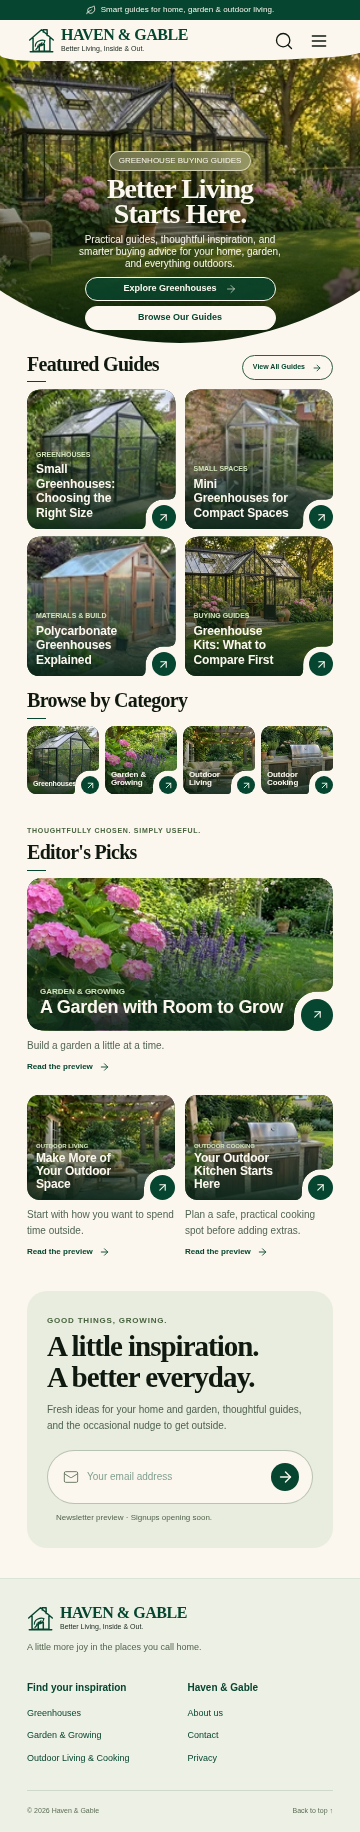
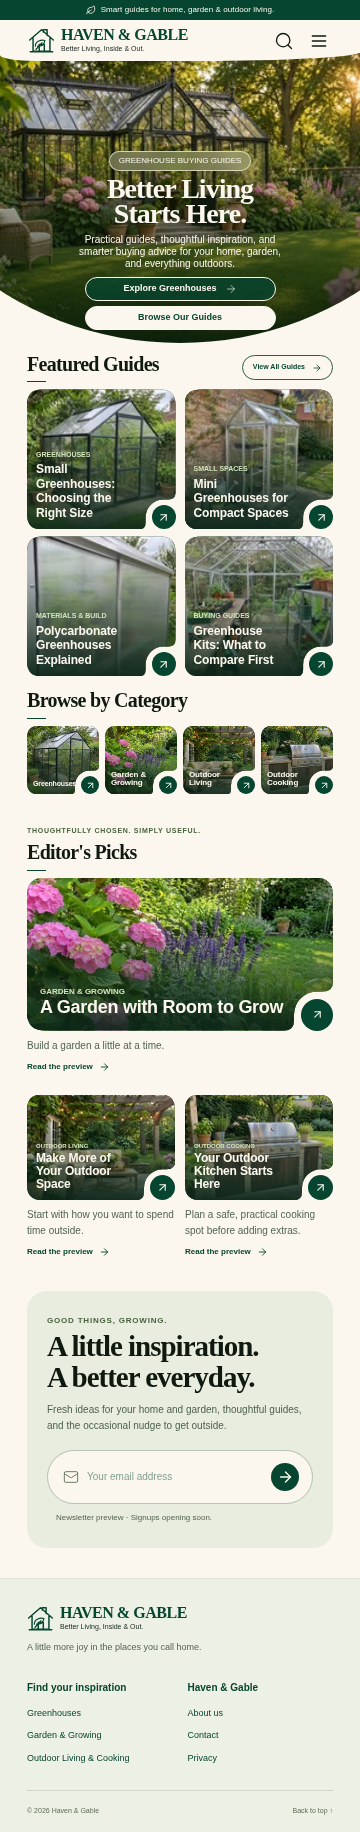
Refine greenhouse editorial photography and device-aware card hover

Changed region(s): [[0.0611, 0.28, 0.9472, 0.3734]]

diff --git a/lib/content.ts b/lib/content.ts
@@ -25,9 +25,9 @@ export const guides = [
     id: "polycarbonate-greenhouses",
     title: "Polycarbonate Greenhouses Explained",
     badge: "Materials & build",
-    image: "/images/greenhouse-timber.webp",
+    image: "/images/greenhouse-panels.webp",
     imageAlt:
-      "Timber greenhouse with translucent polycarbonate panels and vegetable beds",
+      "Close-up of translucent ribbed polycarbonate greenhouse panels and aluminum framing",
     category: "Greenhouses",
     description:
       "Polycarbonate panels are light and diffuse direct sunlight. Compare panel thickness, the frame, ventilation, and the fixing system together. The quality of the whole structure matters as much as the glazing.",
@@ -36,8 +36,9 @@ export const guides = [
     id: "greenhouse-kits",
     title: "Greenhouse Kits: What to Compare First",
     badge: "Buying guides",
-    image: "/images/hero-greenhouse.webp",
-    imageAlt: "Glass greenhouse surrounded by flowers in a sunlit garden",
+    image: "/images/greenhouse-interior.webp",
+    imageAlt:
+      "Greenhouse interior with a potting bench, seed trays, shelves, and gardening supplies",
     category: "Greenhouses",
     description:
       "Look beyond the footprint. Check what the kit includes, which base it needs, and whether doors and vents suit your garden. Measure access for delivery and allow time to prepare a firm, level foundation.",

diff --git a/src/styles/globals.css b/src/styles/globals.css
@@ -383,8 +383,10 @@ section[id] {
   object-fit: cover;
   transition: transform 0.4s;
 }
-.notched-card:hover .card-cover > img {
-  transform: scale(1.035);
+@media (hover: hover) and (pointer: fine) and (prefers-reduced-motion: no-preference) {
+  .notched-card:hover .card-cover > img {
+    transform: scale(1.035);
+  }
 }
 .card-shade {
   position: absolute;
@@ -449,10 +451,15 @@ section[id] {
   height: 21px;
   stroke-width: 2;
 }
-.notched-card:hover .card-arrow,
 .notched-card:focus-visible .card-arrow {
   background: #d7e4c6;
   color: #103720;
+}
+@media (hover: hover) and (pointer: fine) {
+  .notched-card:hover .card-arrow {
+    background: #d7e4c6;
+    color: #103720;
+  }
 }
 .notched-card--category {
   aspect-ratio: 1.08;

diff --git a/assets/editorial-originals/README.md b/assets/editorial-originals/README.md
@@ -1,0 +1,22 @@
+# Editorial image originals
+
+Two original AI-generated editorial photographs were created for the final
+Frontend A refinement. These are generic illustrations of greenhouse subjects,
+not photographs of a verified or tested commercial product model.
+
+| Composition                                                                   | Original                                | Homepage use                           |
+| ----------------------------------------------------------------------------- | --------------------------------------- | -------------------------------------- |
+| Translucent ribbed polycarbonate panels, aluminum framing, natural daylight   | `greenhouse-panels.png` (1448 × 1086)   | Polycarbonate Greenhouses Explained    |
+| Working greenhouse interior with potting bench, trays, shelving, and supplies | `greenhouse-interior.png` (1448 × 1086) | Greenhouse Kits: What to Compare First |
+
+The images use natural lighting, restrained colors, and practical garden details.
+PNG originals are retained here outside `public/` so they are not shipped in the
+static website. Native WebP copies and responsive variants are under
+`public/images/`. These two images add material-detail and interior compositions
+to the existing exterior photographs. The small backyard greenhouse photo is
+reused, as are the mini-greenhouse and garden-category photos. The unused timber
+exterior is retained in the library; the hero photograph and every hero variant
+are unchanged.
+
+No third-party stock assets were introduced. The images must not be described as
+verified product tests, customer gardens, or photographs of a specific real model.

diff --git a/README.md b/README.md
@@ -106,3 +106,23 @@ Full-page screenshots include `mobile-360.png`, `mobile.png` (390px),
 `mobile-430.png`, and `desktop.png` (1440px). Viewport checks cover title fit,
 no horizontal overflow, actual expanded arrow taps, all images loading, and
 responsive image selection at standard and higher pixel densities.
+
+## Final editorial and interaction refinements
+
+The existing mobile 12px titles, 140px minimum guide image height, two-column
+layout, and 44px touch areas already passed at 360px, 390px, and 430px and were
+left unchanged. The same custom card component still supplies one link for its
+image, headline, and circular arrow; no nested controls or article routes were
+added. Hover color and image zoom now apply only to devices with a fine pointer
+and hover capability, and image zoom also requires no reduced-motion preference.
+Keyboard focus remains visible independently of hover.
+
+The small aluminum greenhouse photo was reused. Two new editorial compositions
+replace only the materials card's timber exterior and the kits card's repeated
+hero photo: a polycarbonate close-up and a practical greenhouse interior.
+Originals and provenance are in `assets/editorial-originals/`. New WebP files
+use the existing loader and responsive generation pipeline. The hero photograph,
+its variants, crop, positioning, and all eight section layouts are unchanged.
+
+Review images include `screenshots/mobile.png` (390px), `desktop.png` (1440px),
+and `featured-guides-closeup.png` (the 390px card section captured at 2× density).
